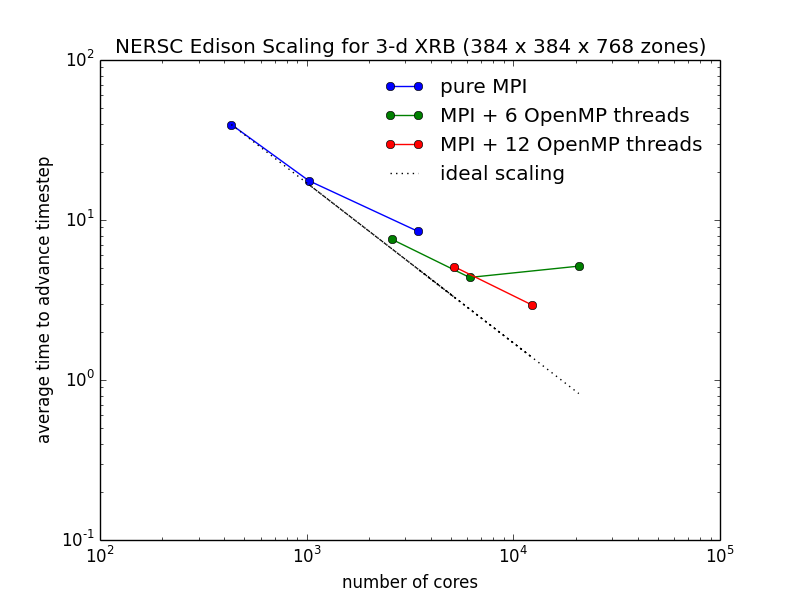
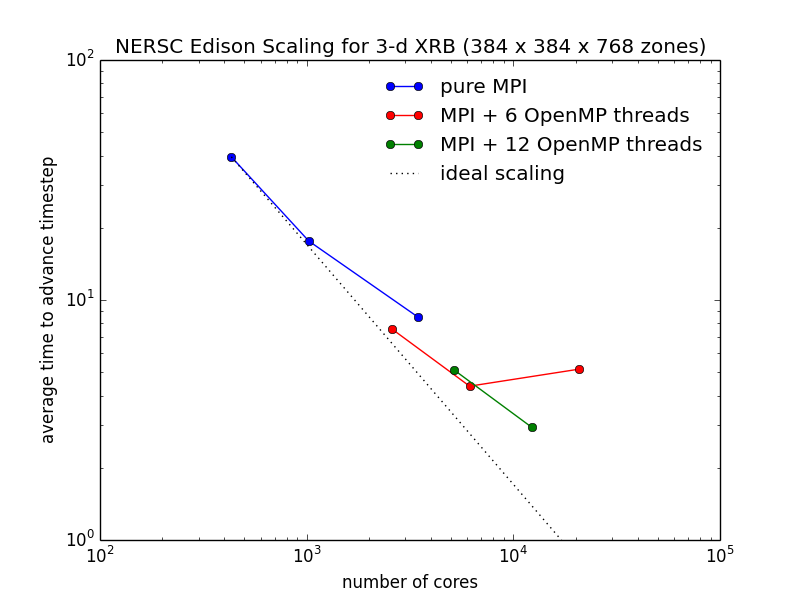
styling

diff --git a/Docs/managing_jobs/scaling/xrb/xrb-3d-edison-20140425/scaling.py b/Docs/managing_jobs/scaling/xrb/xrb-3d-edison-20140425/scaling.py
@@ -27,12 +27,14 @@ def scaling():
     idx_omp6 = N_omp[:] == 6
     idx_omp12 = N_omp[:] == 12
 
-    pylab.loglog(cores[idx_omp1], t_total[idx_omp1], "o-", label="pure MPI")
-    pylab.loglog(cores[idx_omp6], t_total[idx_omp6], "o-", label="MPI + 6 OpenMP threads")
-    pylab.loglog(cores[idx_omp12], t_total[idx_omp12], "o-", label="MPI + 12 OpenMP threads")
+    pylab.loglog(cores[idx_omp1], t_total[idx_omp1], "o-", color="b", label="pure MPI")
+    pylab.loglog(cores[idx_omp6], t_total[idx_omp6], "o-", color="r", label="MPI + 6 OpenMP threads")
+    pylab.loglog(cores[idx_omp12], t_total[idx_omp12], "o-", color="g", label="MPI + 12 OpenMP threads")
 
     # ideal
-    pylab.loglog(cores, t_total[0]*cores[0]/cores, ":", color="k", label="ideal scaling")
+    cm = np.min(cores)
+    cM = np.max(cores)
+    pylab.loglog([cm, cM], t_total[0]*cm/np.array([cm, cM]), ":", color="k", label="ideal scaling")
 
     pylab.legend(frameon=False)
 
@@ -40,6 +42,8 @@ def scaling():
     pylab.ylabel("average time to advance timestep")
 
     pylab.title("NERSC Edison Scaling for 3-d XRB (384 x 384 x 768 zones)")
+
+    pylab.ylim(1.,100.)
 
     pylab.savefig("xrb_edison_scaling_by_parallel.png")
 
@@ -48,14 +52,18 @@ def scaling():
     pylab.clf()
 
     grids = np.unique(N_mpi)
+    colors = ["g", "b", "r"]
     for g in grids:
         idx = N_mpi[:] == g
         gsize = int(round((problem_size/g)**(1./3.)))
-        pylab.loglog(cores[idx], t_total[idx], "o-", label=r"${}^3$ grid".format(gsize))
+        pylab.loglog(cores[idx], t_total[idx], "o-", color=colors.pop(),
+                     label=r"${}^3$ grid".format(gsize))
 
 
     # ideal
-    pylab.loglog(cores, t_total[0]*cores[0]/cores, ":", color="k", label="ideal scaling")
+    cm = np.min(cores)
+    cM = np.max(cores)
+    pylab.loglog([cm, cM], t_total[0]*cm/np.array([cm, cM]), ":", color="k", label="ideal scaling")
 
     pylab.legend(frameon=False)
 
@@ -64,6 +72,7 @@ def scaling():
 
     pylab.title("NERSC Edison Scaling for 3-d XRB (384 x 384 x 768 zones)")
 
+    pylab.ylim(1.,100.)
     pylab.savefig("xrb_edison_scaling_by_grid.png")
 
 
